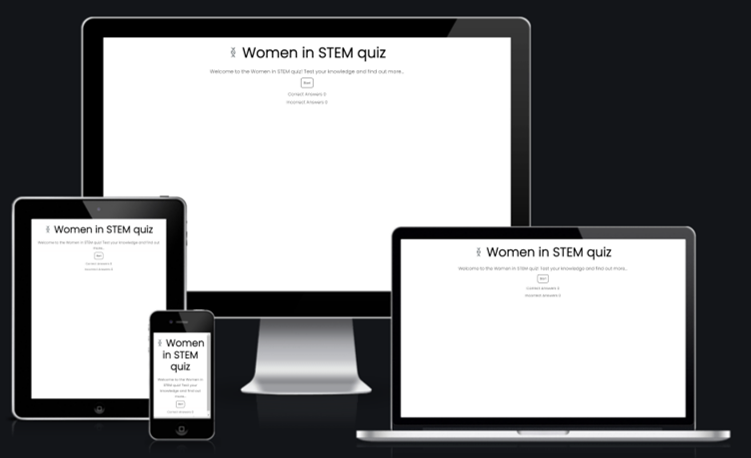
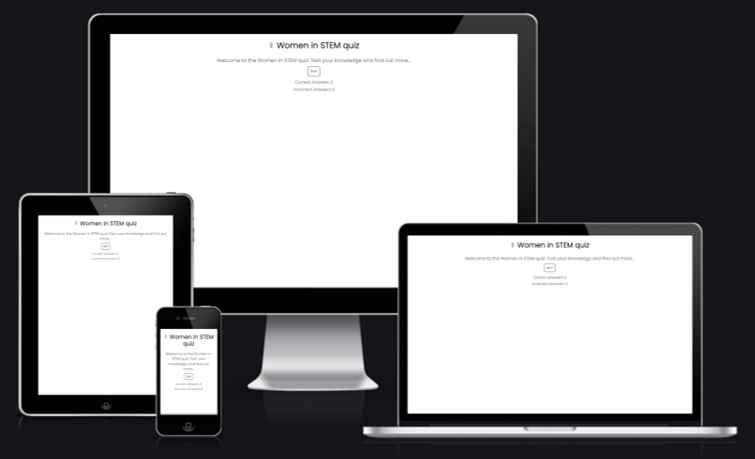
Add note on JS validator issue and update amiresponsive photo

Changed region(s): [[0.0, 0.0306, 0.98, 0.9782]]

diff --git a/README.md b/README.md
@@ -201,7 +201,11 @@ As detailed above in the Scope section, the following elements were considered b
 - [Jigsaw CSS validator](https://jigsaw.w3.org/css-validator/)
 - [JS Hint JavaScript validator](https://jshint.com/)
 
-The website was also tested for accessibility using Lighthouse in Dev Tools, with the following results:
+An interesting issue arose during the JavaScript validator testing. Where I had used ternary statements in the code (on lines 107, 109 and 130 of the script.js file) the validator gave the warning "Expected an assignment or function call and instead saw an expression.". This is because ternary statements are generally expected to be used for assignment, whereas my code uses them to add or remove element classes and / or to call functions. [Further reading on Stack Overflow](https://softwareengineering.stackexchange.com/questions/294556/should-the-ternary-operator-be-used-outside-of-assignment-statements) suggests that this point is debated, with non-assignment uses of ternary operators held by several contributors to be the better option in some cases in terms of avoiding errors and giving a cleaner appearance.
+
+I had originally used the ternary operators because I found that they produced a clearer output than using an `if` statement. They appear simple and easily understandable. Elsewhere in the code (lines 178-184 of the script.js file) I had used an `if` statement, since in that case I found that the more readable way to write the code. For this reason I have chosen to leave the code as originally written, but add this note to clarify.
+
+- The website was also tested for accessibility using Lighthouse in Dev Tools, with the following results:
 
 <img src="assets/images/readme-images/lighthouse.png">
 
@@ -276,6 +280,7 @@ It is also possible to copy the repository onto your own local machine. In pract
 - The Code Institude GitPod [template](https://github.com/Code-Institute-Org/gitpod-full-template) on GitHub was used to create my repository for this project.
 - Thanks to the Code Institute tutor support team, especially Oisin for helping me with the final bug described above.
 - [Balsamiq](https://balsamiq.com/) was used to develop wireframes for the project.
-- Thanks to Ed Stanley for feedback and suggestions for improvement.
+- Thank you to Dave Horrocks and Suzy Bennett for input on the issue with ternary operators in JavaScript.
+- Thanks to Ed Stanley for general feedback and suggestions for improvement.
 - Thank you to my mentor Dick Vlaanderen for code explanations and project guidance and review.
 - Thanks to my fellow students for support, advice and encouragement via Slack.
